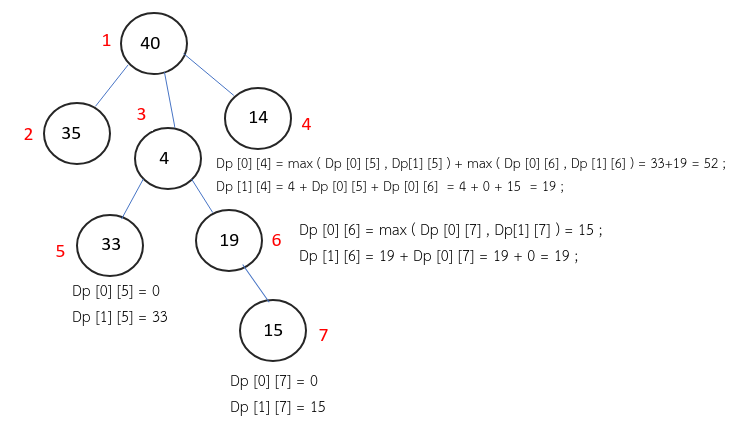
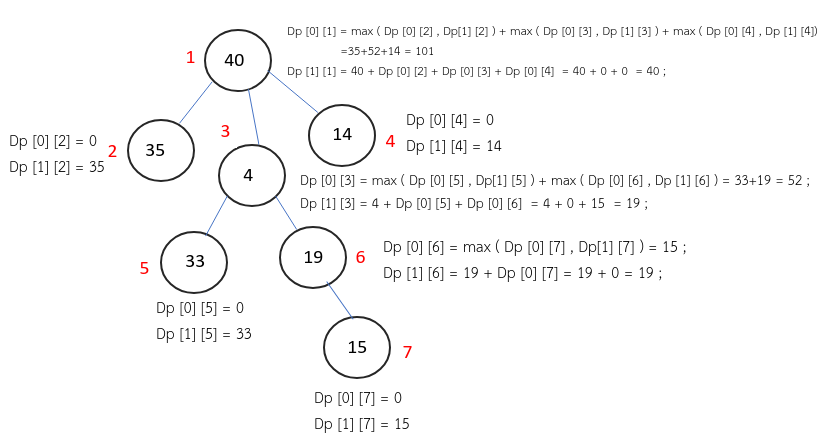
updating something

Changed region(s): [[0.0, 0.0294, 0.9892, 0.9706], [0.7728, 0.5882, 0.8038, 0.6471], [0.0927, 0.2059, 0.1237, 0.2353]]

diff --git a/_posts/2019-06-29-dp-on-trees.md b/_posts/2019-06-29-dp-on-trees.md
@@ -9,6 +9,7 @@ tags: [Dynamic Programming, Trees]
 ## Table Of Contents
 
 * [Introduction](introduction)
+* [Problem 1](#problem1)
 * [Problem 2](#problem2)
 
 ## Introduction <a name="introduction"></a>
@@ -36,7 +37,22 @@ tags: [Dynamic Programming, Trees]
 
 ![tree-dp-1]({{ "/assets/img/posts_images/tree_dp_1.png" | relative_url}})
 
+ছবিটি খুব ভালো করে খেয়াল করলে বাকিটা বুঝতে অসুবিধা হবেনা। কোডটা নিজে করার চেষ্টা করো। আমি নিচে দিয়ে দিচ্ছি তাও। 
 
+``` c++
+void dfs(int node,int par){
+    dp[0][node] = 0;
+    dp[1][node] = cost[node];
+    for(auto v: graph[node]){
+        if(v != par){
+    		dfs(v,node);
+            dp[0][node] += max({dp[1][v],dp[0][v],0});
+            dp[1][node] += max(dp[0][v],0);
+        }
+    }
+}
+// print max(dp[0][1],dp[1][1]);
+```
 
 
 
